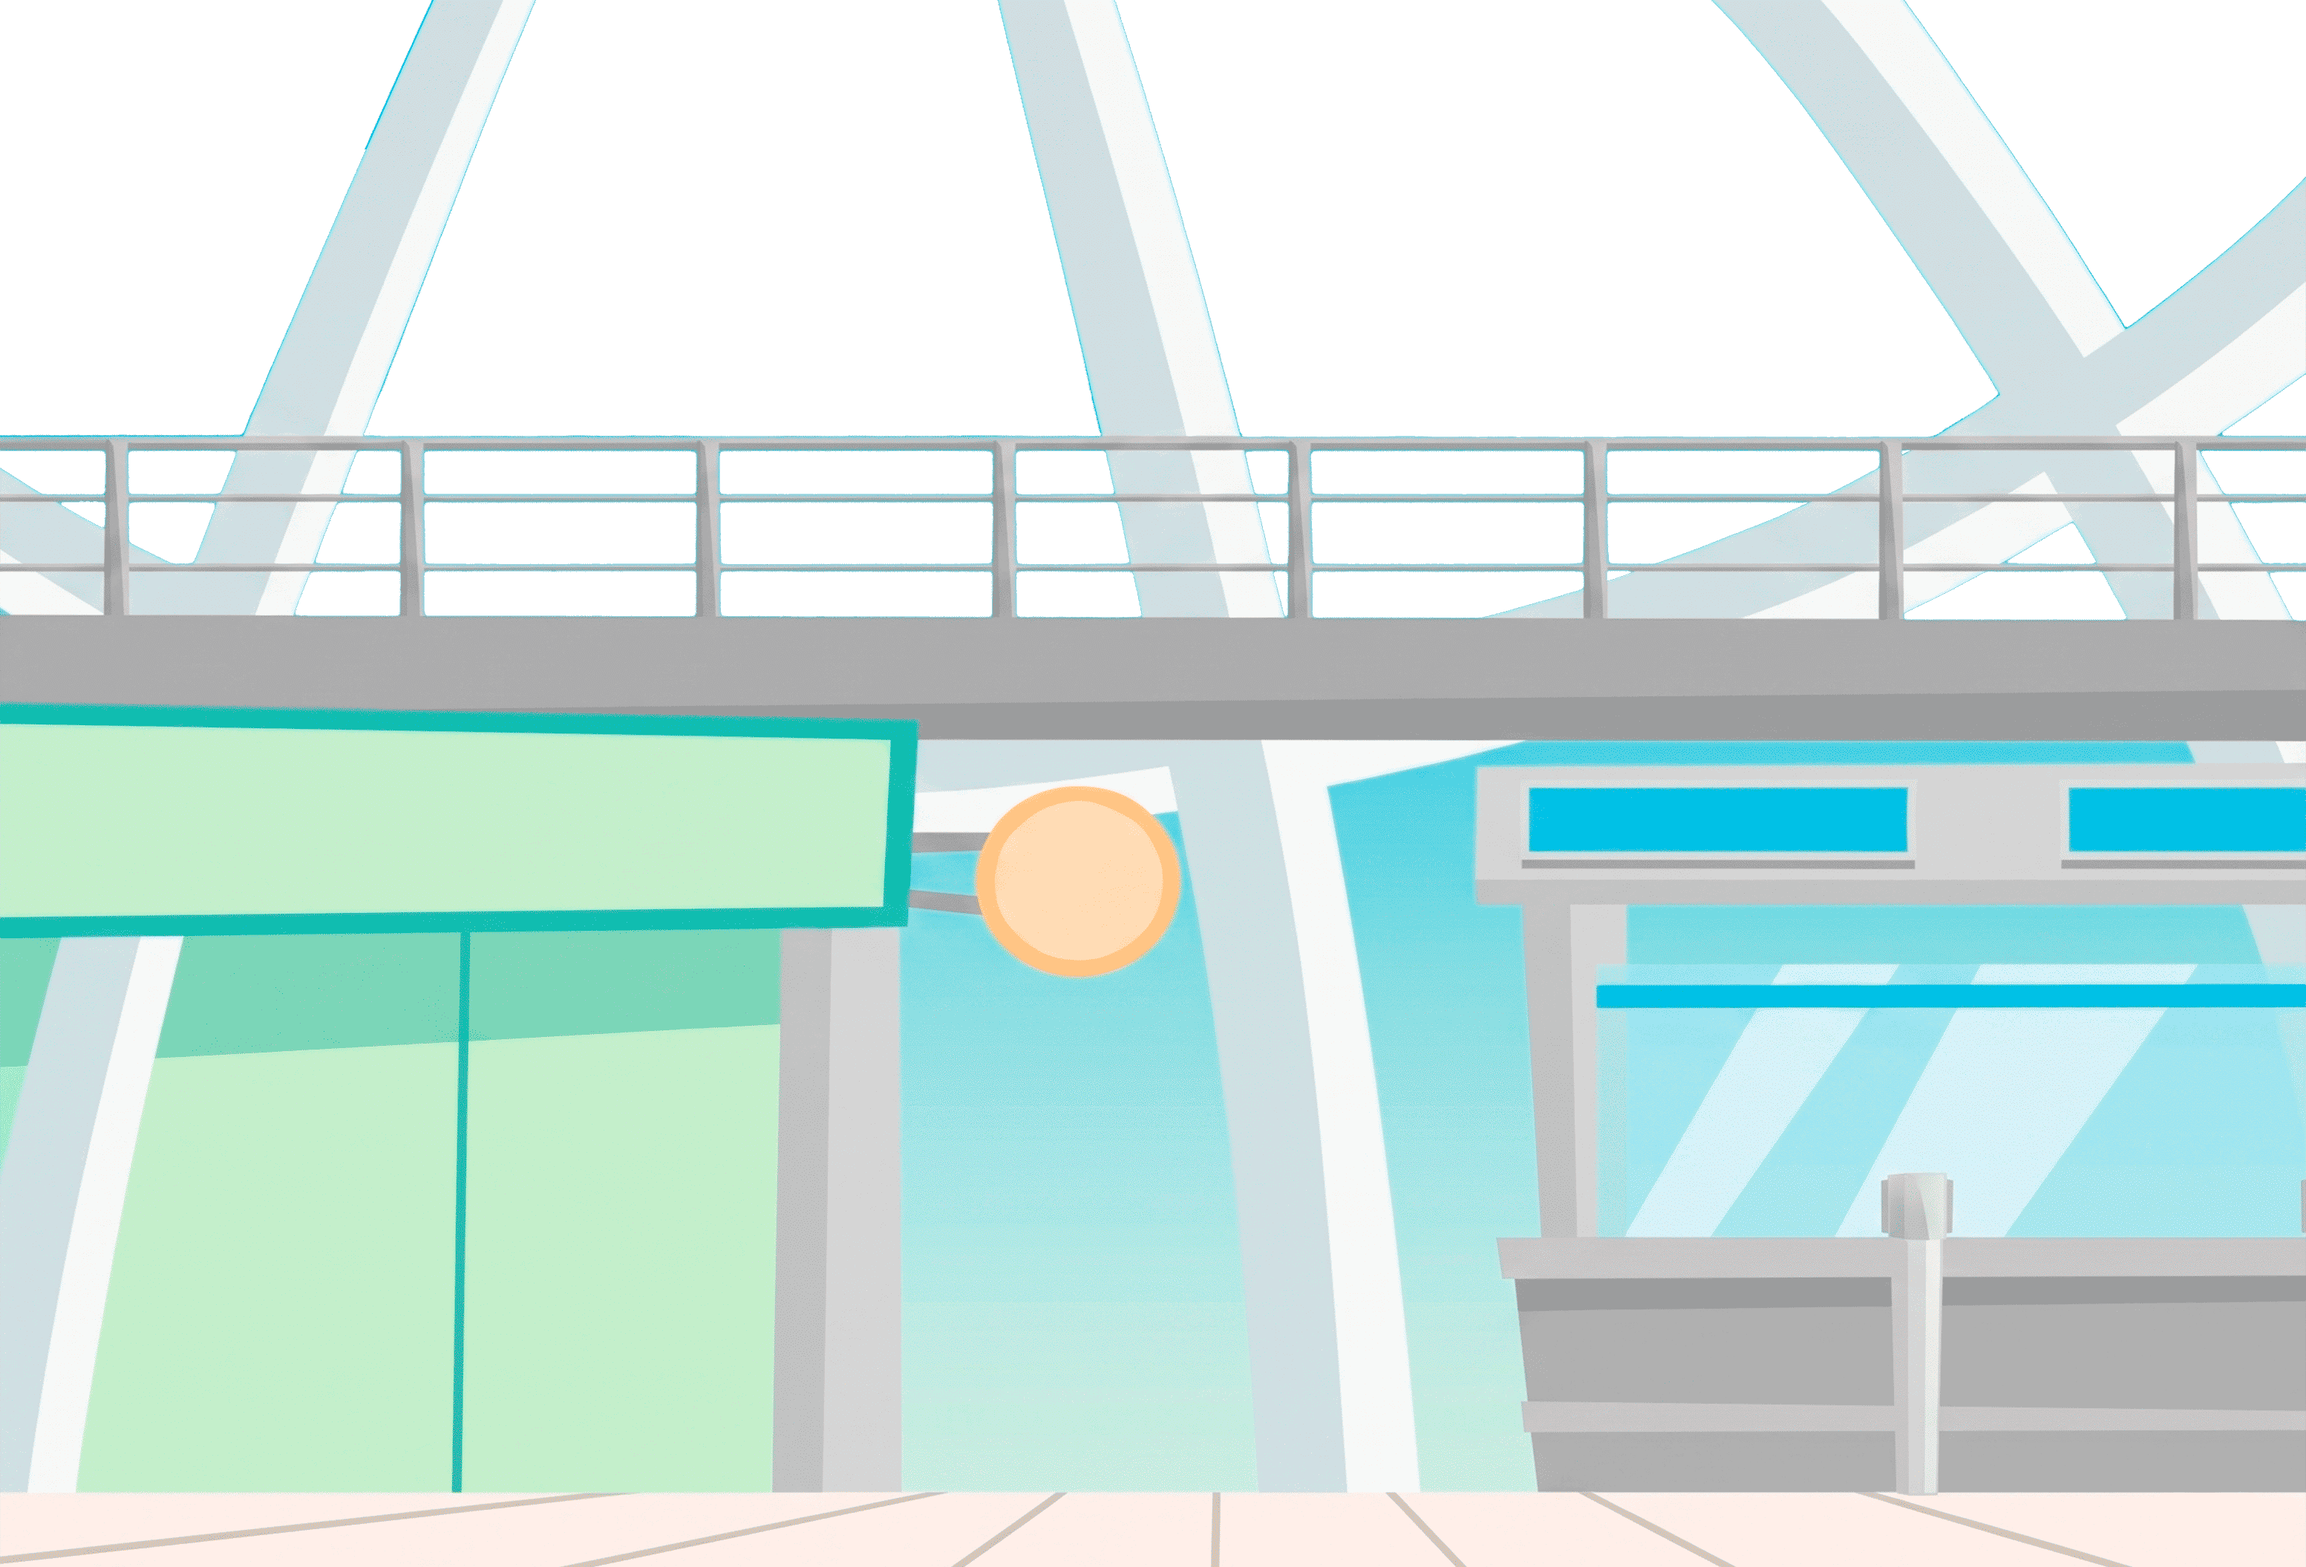
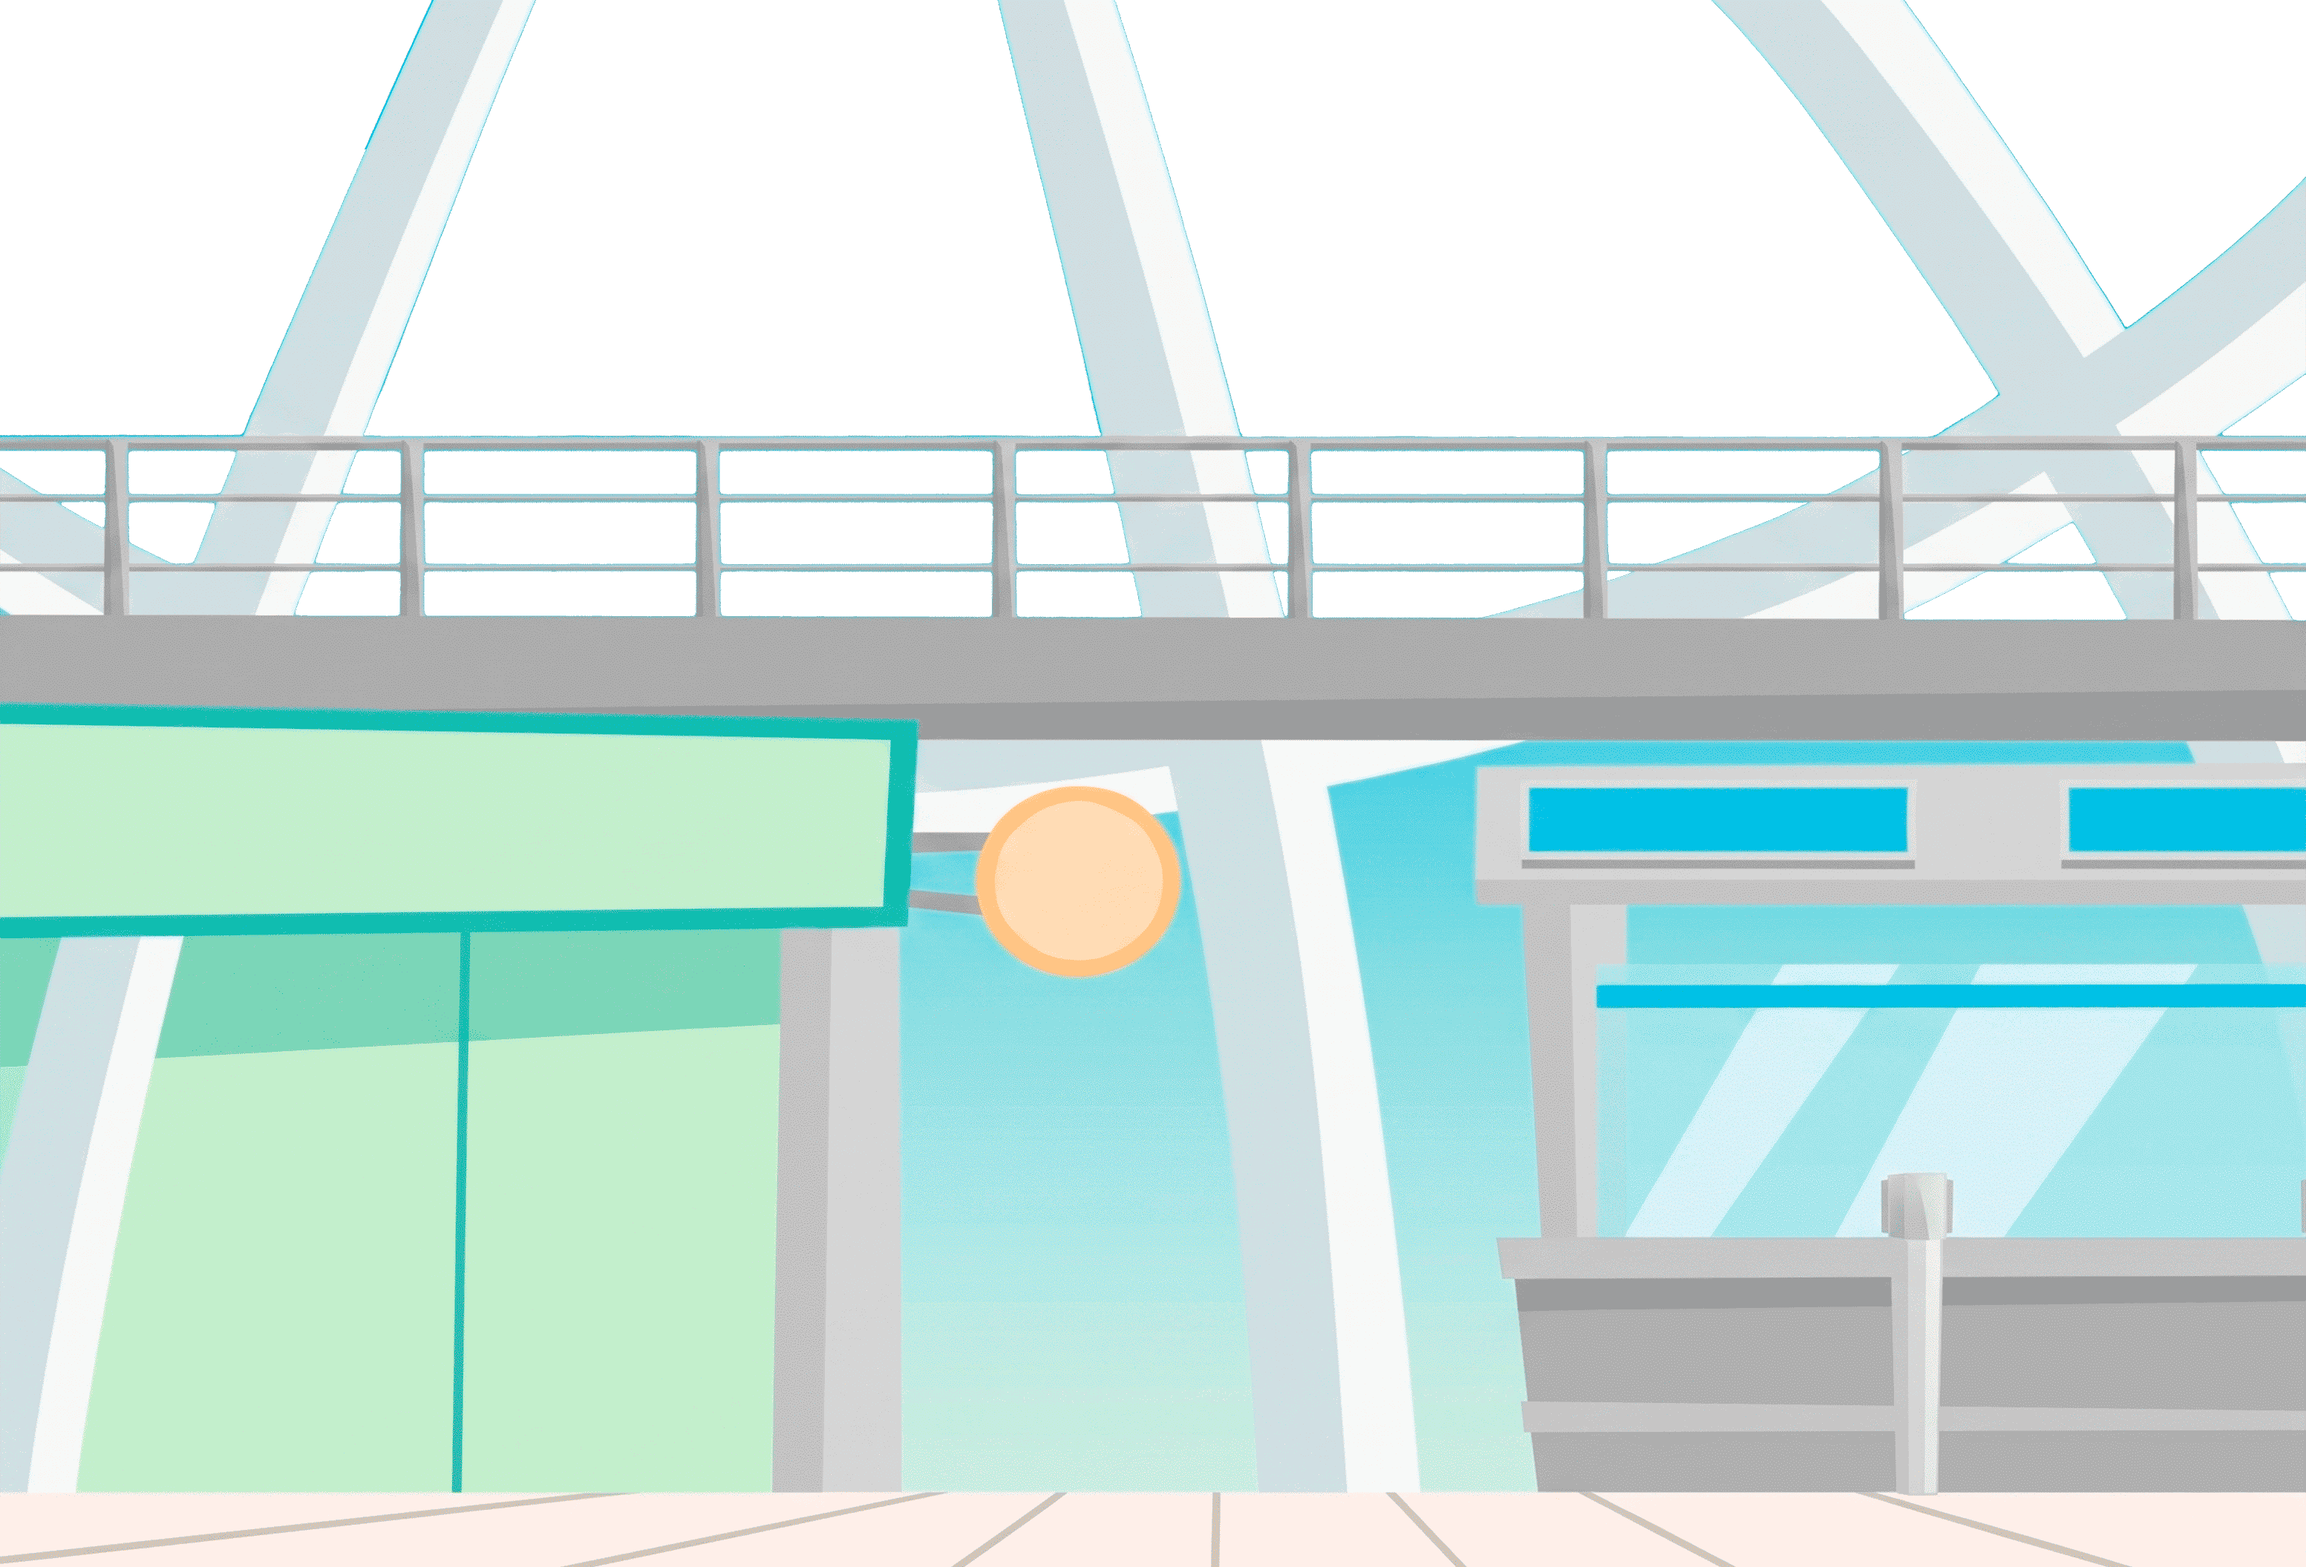
Optimizar peso de imágenes (fondos, aviones, tablas, textos); Ver. 1.28.0

Changed region(s): [[0.406, 0.7698, 0.5309, 0.8006], [0.0, 0.6774, 0.0312, 0.739], [0.6246, 0.7698, 0.6558, 0.8006]]

diff --git a/index.html b/index.html
@@ -405,7 +405,7 @@
         <img class="loading-play-confirm2" src="images/back2.png" alt="" draggable="false" oncontextmenu="return false">
       </div>
     </div>
-    <div id="loading-version">Ver. 1.27.0 (beta test)</div>
+    <div id="loading-version">Ver. 1.28.0 (beta test)</div>
   </div>
 
   <div id="splash-screen" class="game-bg-screen" style="display:none">
